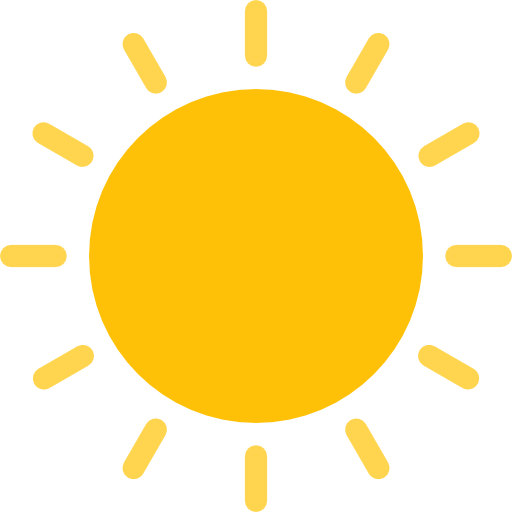
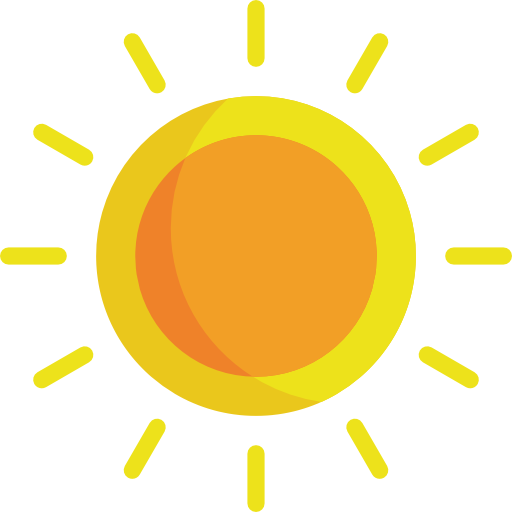
more images weather added

diff --git a/src/app/data.service.ts b/src/app/data.service.ts
@@ -22,7 +22,7 @@ export class DataService {
   currentLocationEmitter = new Subject<any>()
   displayToastEmitter  = new Subject<boolean>()
   cMode = true; 
-  myKey = "VG0sj1PLLzAAkobsbp3GmwFGhmzJy0Sn";
+  myKey = "Ag73Q14AjXuBqEkgGgHE6DKPpzINe3Wo";
   
   updateFavoriteListEmitter = new Subject<any>()
   fromFavorites:boolean = false;
@@ -173,35 +173,62 @@ export class DataService {
     this.displayToastEmitter.next(mode);
   }
 
-  pickImage(dailyForecast)  /*Get a link to the image according to the weather text*/
+  pickImage(dailyForecast:string, temperatureC:number)  /*Get a link to the image according to the weather text*/
   {
     let imageLink;
-    if(dailyForecast.includes("Snow".toLowerCase()) || dailyForecast.includes("Flurries".toLowerCase())) {
+    if(dailyForecast.includes("snow") || dailyForecast.includes("flurries")) {
       imageLink = "../../assets/images/snowing.png";
-        }
-      else if(dailyForecast.includes("Shower".toLowerCase()) || dailyForecast.includes("Rain".toLowerCase())) {
-        imageLink = "../../assets/images/rain.png";
-      }
+    }
 
-      else if(dailyForecast.toLowerCase().includes("Cloud".toLowerCase())) {
-        imageLink = "../../assets/images/cloudy.png";
-      }
+    else if((dailyForecast.includes("shower") || dailyForecast.includes("rain") || dailyForecast.includes("storm"))
+      && dailyForecast.includes("sun")) {
+      imageLink = "../../assets/images/sunny_rain.png";
+    }
 
-      else if(dailyForecast.toLowerCase().includes("Sunny".toLowerCase()) || dailyForecast.includes("Clear".toLowerCase())) {
-          imageLink = "../../assets/images/sunny.png";
-      }
-       
-      else if(dailyForecast.includes("Thunderstorm".toLowerCase())) {
-          imageLink = "../../assets/images/thunderstorm.png";
-      }
-      else if(dailyForecast.toLowerCase().includes("Mist".toLowerCase()) || dailyForecast.toLowerCase().includes
-      ("Fog".toLowerCase()) || dailyForecast.toLowerCase().includes("Hazy".toLowerCase())) {
-          imageLink = "../../assets/images/mist.png";
+    else if(dailyForecast.includes("hazy sunshine")) {
+      imageLink = "../../assets/images/hazy_sunshine.png";
+    }
+
+    else if((dailyForecast.includes("cloud") && dailyForecast.includes("sun"))
+     || dailyForecast.includes("partly sunny")) {
+      imageLink = "../../assets/images/cloud_sun.png";
+    }
+
+    else if(dailyForecast.includes("shower") || dailyForecast.includes("rain")) {
+      imageLink = "../../assets/images/rain.png";
+    }
+
+    else if(dailyForecast.toLowerCase().includes("cloud")) {
+      imageLink = "../../assets/images/cloudy.png";
+    }
+
+    else if(dailyForecast.toLowerCase().includes("sun") || dailyForecast.includes("clear")) {
+     
+      if(temperatureC <= 0) {
+        imageLink = "../../assets/images/sunny_snow.png";
       }
       else {
-        imageLink = "../../assets/images/default.png";
-      } 
-      return imageLink; 
+        imageLink = "../../assets/images/sunny.png";
+      }
+    }
+       
+    else if(dailyForecast.includes("thunderstorm")) {
+        imageLink = "../../assets/images/thunderstorm.png";
+    }
+
+    else if(dailyForecast.toLowerCase().includes("mist") || dailyForecast.toLowerCase().includes
+    ("fog") || dailyForecast.toLowerCase().includes("hazy")) {
+      imageLink = "../../assets/images/mist.png";
+    }
+    else if(dailyForecast.includes("dreary")) {
+      imageLink = "../../assets/images/wind.png";
   }
+
+    else {
+      imageLink = "../../assets/images/default.png";
+    } 
+    return imageLink; 
+  }
+  
 }
 

diff --git a/src/app/city-detail/city-detail.component.ts b/src/app/city-detail/city-detail.component.ts
@@ -58,7 +58,7 @@ export class CityDetailComponent implements OnInit, OnDestroy {
           this.cityObject = city;
           this.temperatureC = city[0].Temperature.Metric.Value;
           this.weatherText = city[0].WeatherText;
-          this.imageLink = this.dataService.pickImage(this.weatherText.toLowerCase())
+          this.imageLink = this.dataService.pickImage(this.weatherText.toLowerCase(), +this.temperatureC);
           this.temperatureF = +(this.getFarenheit(this.temperatureC));  /*Convert to Ferenheit*/ 
           this.setBackgroundImage();
           this.card = document.getElementById("div_flex");
@@ -122,26 +122,29 @@ export class CityDetailComponent implements OnInit, OnDestroy {
   }
 
  setBackgroundImage() {
-    if(this.imageLink.includes("snow")) {
+    if(this.weatherText.toLowerCase().includes("snow")) {
       this.backgroundImage = "../../assets/images/snow-image.jpg";
     }
-    else if(this.imageLink.includes("rain")) {
+    else if(this.weatherText.toLowerCase().includes("rain")) {
       this.backgroundImage = "../../assets/images/rain-image.jpg";
     }
-    else if(this.imageLink.includes("cloudy")) {
+    else if(this.weatherText.toLowerCase().includes("cloud") || this.weatherText.toLowerCase().includes("dreary")) {
       this.backgroundImage = "../../assets/images/cloudy-image.jpg";
     }
-    else if(this.imageLink.includes("sunny") || this.imageLink.includes("clear")) {
+    else if(this.weatherText.toLowerCase().includes("sun") || this.weatherText.toLowerCase().includes("clear")) {
       this.backgroundImage = "../../assets/images/sunny-image.jpg";
     }
-    else if(this.imageLink.includes("mostly_sunny")) {
+    else if(this.weatherText.toLowerCase().includes("mostly_sunny")) {
       this.backgroundImage = "../../assets/images/mostly-sunny-image.jpg";
     }
-    else if(this.imageLink.includes("thunderstorm")) {
+    else if(this.weatherText.toLowerCase().includes("thunderstorm")) {
       this.backgroundImage = "../../assets/images/thunderstorm-image.jpg";
     }
-    else if(this.imageLink.includes("mist") || this.imageLink.includes("hazy") || this.imageLink.includes("foggy")) {
+    else if(this.weatherText.toLowerCase().includes("mist") || this.weatherText.toLowerCase().includes("hazy") || this.weatherText.toLowerCase().includes("foggy")) {
       this.backgroundImage = "../../assets/images/mist-image.jpg";
+    }
+    else {
+      console.log("8")
     }
     
   }

diff --git a/src/app/daily-forecast/daily-forecast.component.ts b/src/app/daily-forecast/daily-forecast.component.ts
@@ -38,8 +38,7 @@ export class DailyForecastComponent implements OnInit, OnDestroy {
     
     this.degF = this.getFarenheit(+this.dailyForecast.maximumDeg, +this.dailyForecast.minimumDeg);
     this.degC = this.getCelsius(this.degF);
-    this.imageLink = this.dataService.pickImage(this.dailyForecast.iconPhrase.toLowerCase())
-
+    this.imageLink = this.dataService.pickImage(this.dailyForecast.iconPhrase.toLowerCase(), +this.degC)
   }
 
   getFarenheit(max:number, min:number)

diff --git a/src/app/city-detail/city-detail.component.css b/src/app/city-detail/city-detail.component.css
@@ -107,8 +107,7 @@
     z-index: -1;
     opacity: 0.2;
     background-repeat: no-repeat;
-    background-size: cover;
-    
+    background-size: cover;  
 }
 
 @media(max-width : 740px) {
